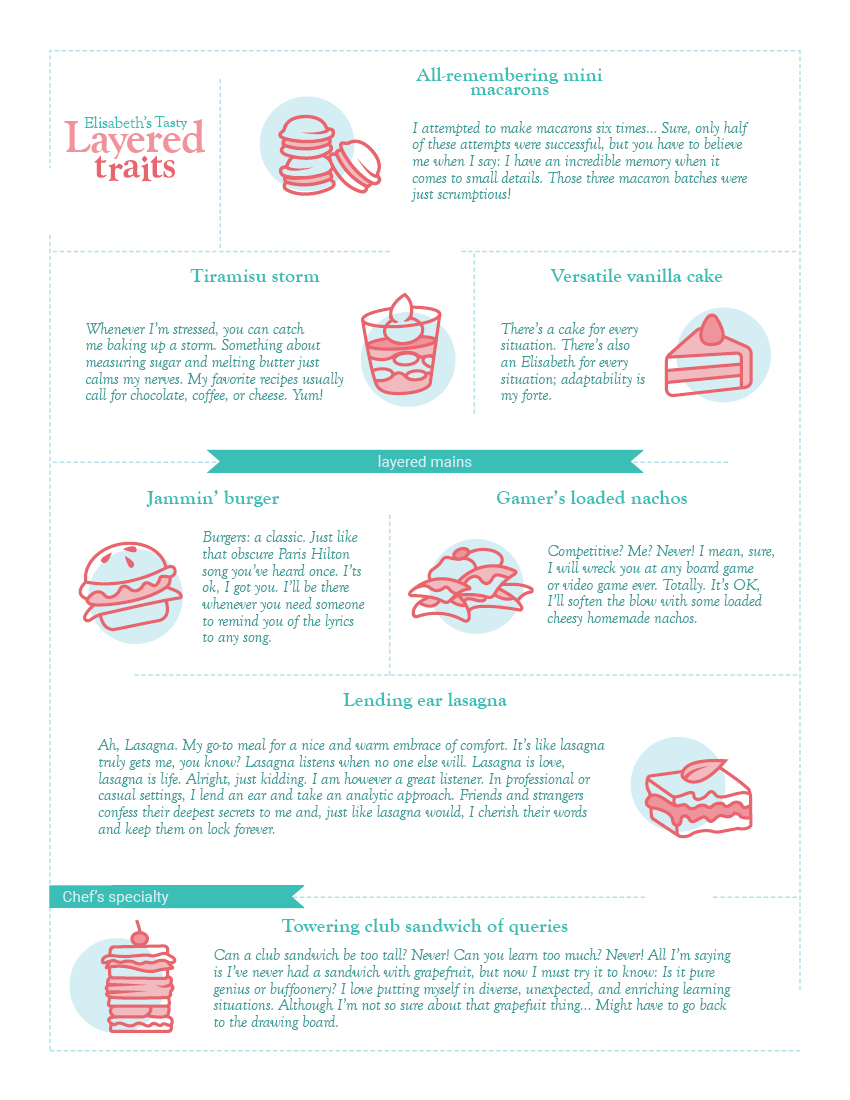
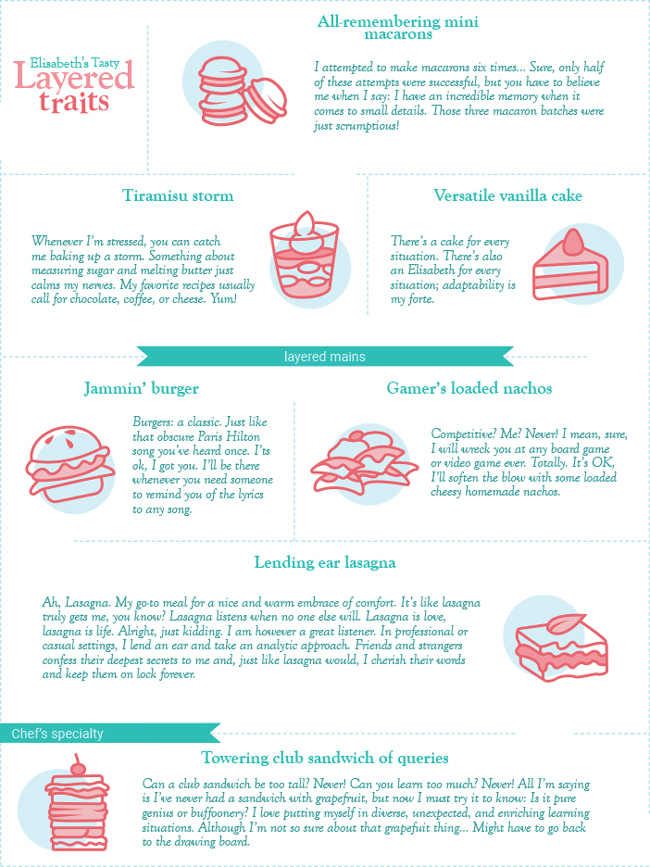
changes

diff --git a/css/style.css b/css/style.css
@@ -107,7 +107,6 @@ button{
   background-color: #F6FFFE;
   border-radius: 15px;
   color: #3DBCB4;
-  margin-bottom: 80px;
 }
 button:hover{
   background-color: #3DBCB4;
@@ -154,7 +153,6 @@ div#menu-img img{
   margin-left:auto;
   margin-right:auto;
   width:92%;
-  border:1px solid #3DBCB4;
 }
 div.one-col{
   margin-top:30px;
@@ -181,6 +179,7 @@ div#resume-typo p{
 div.blueback{
   background-color:#D4FBF6;
   padding-top:20px;
+  overflow: hidden;
 }
 button#centerbutton{
   display: block;
@@ -188,6 +187,7 @@ button#centerbutton{
   margin-top:25px;
   margin-left:auto;
   margin-right:auto;
+  margin-bottom: 50px;
   text-align: center;
   outline-color: #E7656E;
   color:#E7656E;
@@ -272,7 +272,6 @@ button#centerbutton:hover{
   div.blueback{
     background-color:#D4FBF6;
     padding-top:20px;
-    min-height:38vh;
     clear: both;
   }
 /*==========================================================THIS IS THE ABOUT PAGE*/
@@ -424,7 +423,7 @@ img#desktop-portrait{
 }
 /*==========================================================THIS IS THE ABOUT PAGE*/
 div#menu-img img{
-  width:630px;
-  margin-top: -20px;
+  width:650px;
+  margin-top: -45px;
 }
 }
